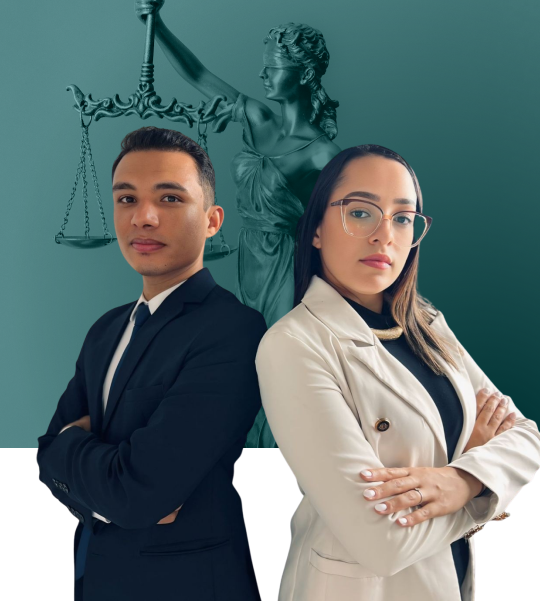
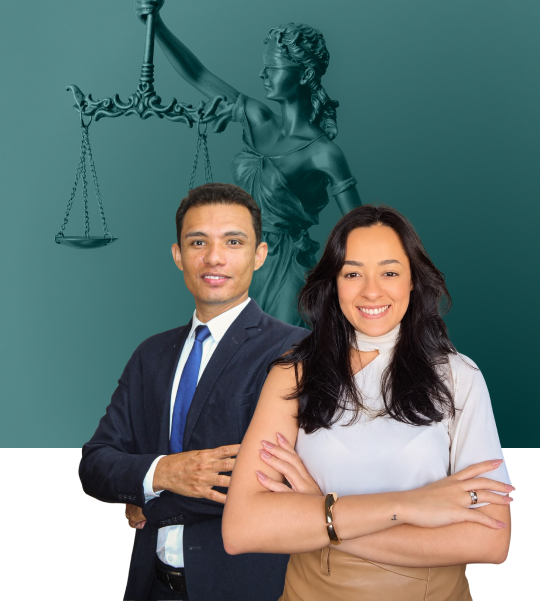
feat: :sparkles: update hero image and especialistas texts

diff --git a/src/components/Especialistas.jsx b/src/components/Especialistas.jsx
@@ -13,14 +13,20 @@ const Especialistas = () => {
 								<h5 className="headline-5">Especialista</h5>
 								<h2 className="headline-2">Flávio Santana</h2>
 							</div>
-							<p className="paragraph text-justify">
-								Formado em Direito pela Universidade Anhanguera de São Paulo e pós-graduado em Direito do
-								Trabalho e Processo do Trabalho, Curso de Especialização em Direito Previdenciário, com mais
-								de 5 anos de experiência na advocacia. Flávio busca constantemente oferecer um atendimento
-								focado em resultados e no bem-estar de seus clientes, ele conduz cada caso com o máximo de
-								cuidado e atenção, sempre comprometido com as necessidades daqueles que confiam em seu
-								trabalho.
-							</p>
+							<div className="flex flex-col gap-3">
+								<p className="paragraph text-justify">
+									Bacharel em Direito pela Universidade Anhanguera de São Paulo, pós-graduado em Direito do
+									Trabalho e Processo do Trabalho e especialização em Direito Previdenciário, Flávio alia
+									conhecimento técnico e dedicação para oferecer uma atuação jurídica estratégica, ética e
+									personalizada.
+								</p>
+								<p className="paragraph text-justify">
+									Seu trabalho é pautado pela análise cuidadosa de cada caso, pela transparência na
+									orientação jurídica e pelo compromisso em buscar as melhores soluções legais para cada
+									cliente. Com atendimento humanizado e atenção individualizada, conduz cada demanda com
+									responsabilidade, seriedade e respeito aos direitos de quem confia em seu trabalho.
+								</p>
+							</div>
 						</div>
 					</div>
 					<div className="especialista__caroline flex flex-col md:flex-row-reverse justify-between items-center gap-14 text-primary">
@@ -30,13 +36,20 @@ const Especialistas = () => {
 								<h5 className="headline-5">Especialista</h5>
 								<h2 className="headline-2">CAROLINA MORAIS</h2>
 							</div>
-							<p className="paragraph text-justify">
-								Formada em Direito pela Universidade Nove de Julho, possui mais de 5 anos de experiência na
-								advocacia, atuando tanto no setor público quanto privado. Com uma paixão nata pela oratória e
-								persuasão, Carolina descobriu na advocacia uma verdadeira vocação: defender direitos e
-								promover o acesso à Justiça. Pós-graduada em Direito e Processo do Trabalho, Carolina oferece
-								um atendimento personalizado e focado em soluções eficazes para cada cliente.
-							</p>
+							<div className="flex flex-col gap-3">
+								<p className="paragraph text-justify">
+									Bacharel em Direito pela Universidade Nove de Julho e pós-graduada em Direito e Processo do
+									Trabalho, Carolina reúne conhecimento jurídico e vivência nos setores público e privado,
+									ampliando sua compreensão sobre os desafios e as necessidades de cada demanda.
+								</p>
+								<p className="paragraph text-justify">
+									Com forte aptidão para a oratória e a argumentação jurídica, encontrou na advocacia sua
+									verdadeira vocação: defender direitos, buscar soluções jurídicas adequadas e contribuir
+									para o acesso à Justiça. Sua atuação é pautada pela ética, pela responsabilidade e pelo
+									atendimento personalizado, com análise criteriosa de cada caso e compromisso com os
+									interesses de seus clientes.
+								</p>
+							</div>
 						</div>
 					</div>
 				</div>

diff --git a/src/components/Hero.jsx b/src/components/Hero.jsx
@@ -1,5 +1,5 @@
-import heroImg from '../assets/hero.png';
-import ChevronRight from '../assets/ic_baseline-chevron-right.svg?react';
+import heroImg from "../assets/hero.png";
+import ChevronRight from "../assets/ic_baseline-chevron-right.svg?react";
 
 const Hero = () => {
 	return (
@@ -8,22 +8,34 @@ const Hero = () => {
 				<div className="w-full flex flex-col md:flex-row md:justify-between px-3 md:px-8 gap-8">
 					<div className="hero__data md:max-w-[650px] flex flex-col items-center md:items-start gap-8 text-primary pb-3">
 						<div className="flex flex-col gap-4 text-center md:text-start">
-							<h4 className="headline-5 lg:headline-4">RECEBA O QUE É SEU POR DIREITO</h4>
+							<h4 className="headline-5 lg:headline-4">
+								RECEBA O QUE É SEU POR DIREITO
+							</h4>
 							<h1 className="headline-2 lg:headline-1">
-								Especialistas em Direito do Trabalho e Direito Previdenciário
+								Especialistas em Direito do Trabalho e Direito
+								Previdenciário
 							</h1>
 							<p className="lead-paragraph text-center md:text-start">
-								Atuamos na defesa dos trabalhadores e na garantia dos direitos previdenciários, ajudando você
-								a conquistar seus benefícios de forma ágil e segura
+								Atuamos na defesa dos trabalhadores e na
+								garantia dos direitos previdenciários, ajudando
+								você a conquistar seus benefícios de forma ágil
+								e segura
 							</p>
 						</div>
-						<a href="https://wa.me/message/KUPNLGIU4BW2G1" className="button hover:bg-secondary">
+						<a
+							href="https://wa.me/message/KUPNLGIU4BW2G1"
+							className="button hover:bg-secondary"
+						>
 							<span>FALE COM UM ESPECIALISTA</span>
 							<ChevronRight />
 						</a>
 					</div>
 					<div className="hero__img items-end">
-						<img src={heroImg} alt="" className="w-full md:h-full md:min-w-[382px] object-cover" />
+						<img
+							src={heroImg}
+							alt=""
+							className="w-full md:h-full md:min-w-[382px] object-cover"
+						/>
 					</div>
 				</div>
 			</div>
